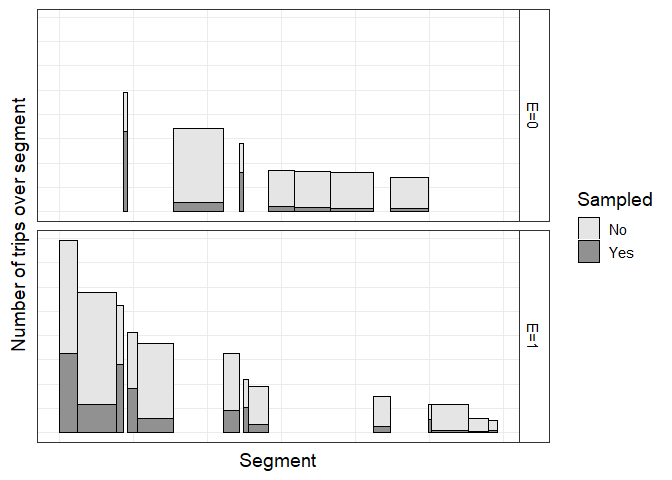
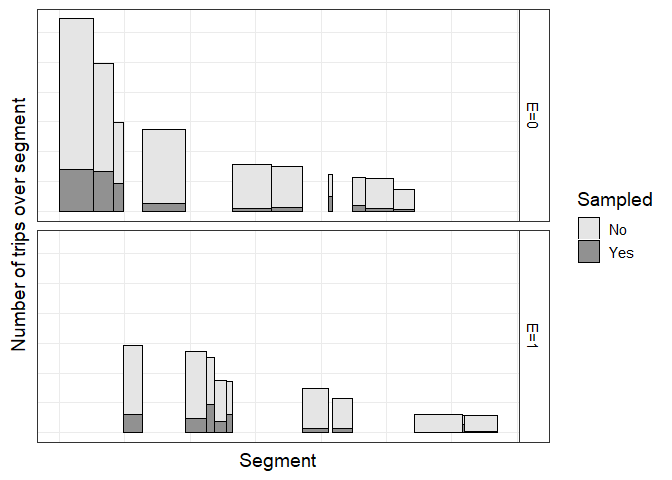
Minor cleanup. Clearer commenting.

Changed region(s): [[0.0625, 0.0312, 0.6562, 0.4688], [0.0625, 0.5, 0.4062, 0.9062], [0.4375, 0.8125, 0.75, 0.9062]]

diff --git a/code/code-for-figures.html b/code/code-for-figures.html
@@ -1644,31 +1644,34 @@ summary {
 <p>First, load the necessary libraries.</p>
 <pre class="r"><code>library(tidyverse) 
 library(truncnorm)</code></pre>
-<div id="simulate-data-for-the-figure" class="section level3">
-<h3>Simulate data for the figure</h3>
+<div id="simulate-data-for-the-figures" class="section level3">
+<h3>Simulate data for the figures</h3>
 <pre class="r"><code>fig1_df = 1:20 %&gt;% 
   as_tibble() %&gt;% 
   rename(id=value) %&gt;%
   mutate(
-    l=rtruncnorm(a=3,
+    L=rtruncnorm(a=3,
                  mean=20, sd=20, n=n()),
-    N=rtruncnorm(a=5, mean=20 + -0.1*l, sd=20, n=n())) %&gt;% 
+    #induce a slight negative association between segment length (L) and
+    #the number of times the segment was traveled upon (N)
+    N=rtruncnorm(a=5, mean=20 + -0.1*L, sd=20, n=n())) %&gt;% 
   arrange(desc(N)) %&gt;% 
   mutate(
-    l_cum_right = cumsum(l),
-    BD=l*N,
-    l_cum_left =l_cum_right-l,
-    l_cum_mid = l_cum_left+((l_cum_right-l_cum_left)/2), #because I want to plot at midpoint
-
+    L_cum_right = cumsum(L),
+    BD=L*N,
+    L_cum_left =L_cum_right-L,
+    L_cum_mid = L_cum_left+((L_cum_right-L_cum_left)/2), #because I want to plot at midpoint
+  
+    #define the sampling fraction (f) with a beta distribution because it&#39;s a proportion
     f=rbeta(n=n(),
-            #more likely to be sampled if higher traffic segment and longer segment
-            shape1= 15*(mean(l)+ mean(N))+100*N , 
+            #more likely to be sampled if higher traffic segment (higher N)
+            shape1= 15*(mean(L)+ mean(N))+100*N , 
             
-            #this makes the average probability 1/4, scaled to N
-            shape2= mean(l)+ mean(N) + 5*(l*100)
+            #more likely to be sampled if longer segment (higher L)
+            shape2= mean(L)+ mean(N) + 5*(L*100)
             ),
     N_f = N*f,
-    BD_f = N_f*l,
+    BD_f = N_f*L,
     N_f_not = N-N_f,
     BD_f_not = BD - BD_f,
     e = rbinom(n=n(), size=1, prob=.4),
@@ -1679,29 +1682,29 @@ library(truncnorm)</code></pre>
   )
 
 
-# create a long-form dataset. (Could do this with pivot-longer but not yet intuitive to me)
+# Create a long-form dataset. (Could do this with pivot-longer but not yet intuitive to me)
 fig1_df_long_s1 = fig1_df %&gt;% 
-  dplyr::select(id, l, N, l_cum_mid, N_f, BD_f, e_char, e) %&gt;% 
+  dplyr::select(id, L, N, L_cum_mid, N_f, BD_f, e_char, e) %&gt;% 
   rename(n_long = N_f, BD_long = BD_f) %&gt;% 
-  arrange(l) %&gt;% 
+  arrange(L) %&gt;% 
   mutate(sampled=1) %&gt;% 
   group_by(e) %&gt;% 
   mutate(
-    l_cum_right_alt = cumsum(l), #alt
-    l_cum_left_alt =l_cum_right_alt-l,
-    l_cum_mid_alt = l_cum_left_alt+((l_cum_right_alt-l_cum_left_alt)/2)
+    L_cum_right_alt = cumsum(L), #alt
+    L_cum_left_alt =L_cum_right_alt-L,
+    L_cum_mid_alt = L_cum_left_alt+((L_cum_right_alt-L_cum_left_alt)/2)
   )
 
 fig1_df_long_s0 = fig1_df %&gt;% 
-  dplyr::select(id, l, N, l_cum_mid, N_f_not, BD_f_not, e_char, e) %&gt;% 
+  dplyr::select(id, L, N, L_cum_mid, N_f_not, BD_f_not, e_char, e) %&gt;% 
   rename(n_long = N_f_not, BD_long = BD_f_not) %&gt;% 
-  arrange(l) %&gt;% 
+  arrange(L) %&gt;% 
   mutate(sampled=0) %&gt;% 
   group_by(e) %&gt;% 
   mutate(
-    l_cum_right_alt = cumsum(l), #alt
-    l_cum_left_alt =l_cum_right_alt-l,
-    l_cum_mid_alt = l_cum_left_alt+((l_cum_right_alt-l_cum_left_alt)/2)
+    L_cum_right_alt = cumsum(L), #alt
+    L_cum_left_alt =L_cum_right_alt-L,
+    L_cum_mid_alt = L_cum_left_alt+((L_cum_right_alt-L_cum_left_alt)/2)
   )
 
 
@@ -1711,7 +1714,7 @@ fig1_df_long = fig1_df_long_s1 %&gt;%
 <div id="figure-1-person-distance-sampling-at-the-segment-level" class="section level3">
 <h3>Figure 1: person-distance sampling at the segment level</h3>
 <pre class="r"><code>fig1_df_long %&gt;% 
-  ggplot(aes(x=l_cum_mid, y=n_long, width=l, fill =as.character(sampled))) + #set coordinate to the cumulative midpoint
+  ggplot(aes(x=L_cum_mid, y=n_long, width=L, fill =as.character(sampled))) + #set coordinate to the cumulative midpoint
   geom_bar(
     stat=&quot;identity&quot;, 
     position = &quot;stack&quot;,
@@ -1740,7 +1743,7 @@ fig1_df_long = fig1_df_long_s1 %&gt;%
     )+
   theme( strip.background =element_rect(fill=&quot;white&quot;))+
   theme(  strip.text =element_text(colour =   &quot;black&quot;))</code></pre>
[2 lines of base64/hex data omitted]
 </div>
 <div id="figure-2-person-event-sampling-at-the-intersection-level" class="section level3">
 <h3>Figure 2: person-event sampling at the intersection level</h3>
@@ -1777,7 +1780,7 @@ fig1_df_long = fig1_df_long_s1 %&gt;%
   )+
   theme( strip.background =element_rect(fill=&quot;white&quot;))+
   theme(  strip.text =element_text(colour =   &quot;black&quot;))</code></pre>
[2 lines of base64/hex data omitted]
 </div>
 
 

diff --git a/code/code-for-figures.md b/code/code-for-figures.md
@@ -18,7 +18,7 @@ library(truncnorm)
 ```
 
 
-### Simulate data for the figure
+### Simulate data for the figures
 
 
 ```r
@@ -26,25 +26,28 @@ fig1_df = 1:20 %>%
   as_tibble() %>% 
   rename(id=value) %>%
   mutate(
-    l=rtruncnorm(a=3,
+    L=rtruncnorm(a=3,
                  mean=20, sd=20, n=n()),
-    N=rtruncnorm(a=5, mean=20 + -0.1*l, sd=20, n=n())) %>% 
+    #induce a slight negative association between segment length (L) and
+    #the number of times the segment was traveled upon (N)
+    N=rtruncnorm(a=5, mean=20 + -0.1*L, sd=20, n=n())) %>% 
   arrange(desc(N)) %>% 
   mutate(
-    l_cum_right = cumsum(l),
-    BD=l*N,
-    l_cum_left =l_cum_right-l,
-    l_cum_mid = l_cum_left+((l_cum_right-l_cum_left)/2), #because I want to plot at midpoint
-
+    L_cum_right = cumsum(L),
+    BD=L*N,
+    L_cum_left =L_cum_right-L,
+    L_cum_mid = L_cum_left+((L_cum_right-L_cum_left)/2), #because I want to plot at midpoint
+  
+    #define the sampling fraction (f) with a beta distribution because it's a proportion
     f=rbeta(n=n(),
-            #more likely to be sampled if higher traffic segment and longer segment
-            shape1= 15*(mean(l)+ mean(N))+100*N , 
+            #more likely to be sampled if higher traffic segment (higher N)
+            shape1= 15*(mean(L)+ mean(N))+100*N , 
             
-            #this makes the average probability 1/4, scaled to N
-            shape2= mean(l)+ mean(N) + 5*(l*100)
+            #more likely to be sampled if longer segment (higher L)
+            shape2= mean(L)+ mean(N) + 5*(L*100)
             ),
     N_f = N*f,
-    BD_f = N_f*l,
+    BD_f = N_f*L,
     N_f_not = N-N_f,
     BD_f_not = BD - BD_f,
     e = rbinom(n=n(), size=1, prob=.4),
@@ -55,29 +58,29 @@ fig1_df = 1:20 %>%
   )
 
 
-# create a long-form dataset. (Could do this with pivot-longer but not yet intuitive to me)
+# Create a long-form dataset. (Could do this with pivot-longer but not yet intuitive to me)
 fig1_df_long_s1 = fig1_df %>% 
-  dplyr::select(id, l, N, l_cum_mid, N_f, BD_f, e_char, e) %>% 
+  dplyr::select(id, L, N, L_cum_mid, N_f, BD_f, e_char, e) %>% 
   rename(n_long = N_f, BD_long = BD_f) %>% 
-  arrange(l) %>% 
+  arrange(L) %>% 
   mutate(sampled=1) %>% 
   group_by(e) %>% 
   mutate(
-    l_cum_right_alt = cumsum(l), #alt
-    l_cum_left_alt =l_cum_right_alt-l,
-    l_cum_mid_alt = l_cum_left_alt+((l_cum_right_alt-l_cum_left_alt)/2)
+    L_cum_right_alt = cumsum(L), #alt
+    L_cum_left_alt =L_cum_right_alt-L,
+    L_cum_mid_alt = L_cum_left_alt+((L_cum_right_alt-L_cum_left_alt)/2)
   )
 
 fig1_df_long_s0 = fig1_df %>% 
-  dplyr::select(id, l, N, l_cum_mid, N_f_not, BD_f_not, e_char, e) %>% 
+  dplyr::select(id, L, N, L_cum_mid, N_f_not, BD_f_not, e_char, e) %>% 
   rename(n_long = N_f_not, BD_long = BD_f_not) %>% 
-  arrange(l) %>% 
+  arrange(L) %>% 
   mutate(sampled=0) %>% 
   group_by(e) %>% 
   mutate(
-    l_cum_right_alt = cumsum(l), #alt
-    l_cum_left_alt =l_cum_right_alt-l,
-    l_cum_mid_alt = l_cum_left_alt+((l_cum_right_alt-l_cum_left_alt)/2)
+    L_cum_right_alt = cumsum(L), #alt
+    L_cum_left_alt =L_cum_right_alt-L,
+    L_cum_mid_alt = L_cum_left_alt+((L_cum_right_alt-L_cum_left_alt)/2)
   )
 
 
@@ -90,7 +93,7 @@ fig1_df_long = fig1_df_long_s1 %>%
 
 ```r
 fig1_df_long %>% 
-  ggplot(aes(x=l_cum_mid, y=n_long, width=l, fill =as.character(sampled))) + #set coordinate to the cumulative midpoint
+  ggplot(aes(x=L_cum_mid, y=n_long, width=L, fill =as.character(sampled))) + #set coordinate to the cumulative midpoint
   geom_bar(
     stat="identity", 
     position = "stack",
